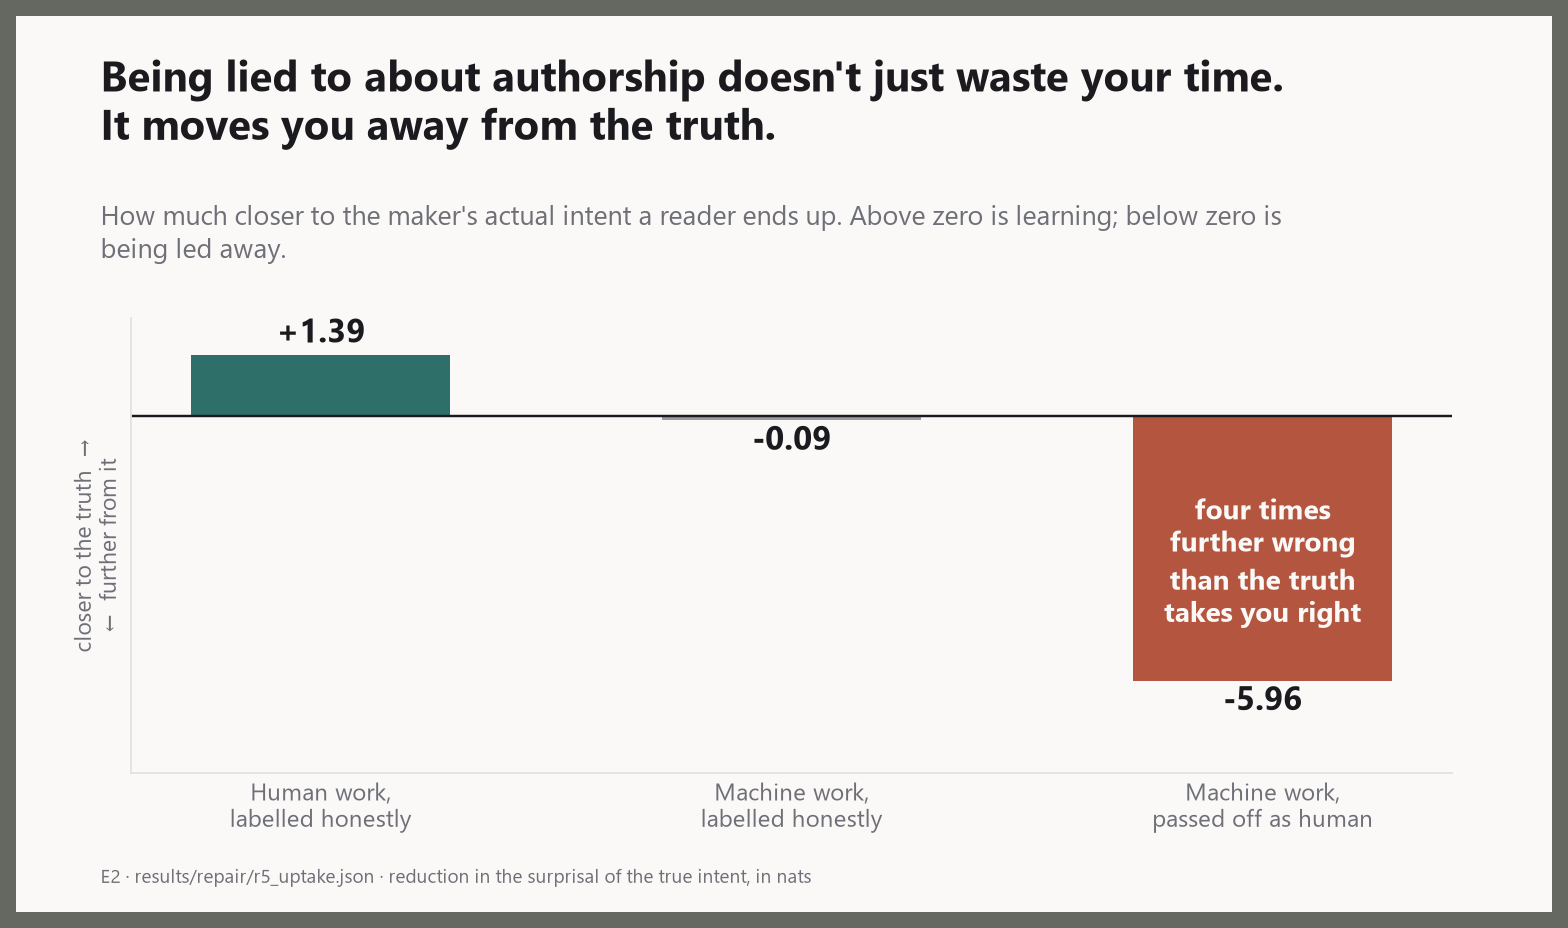
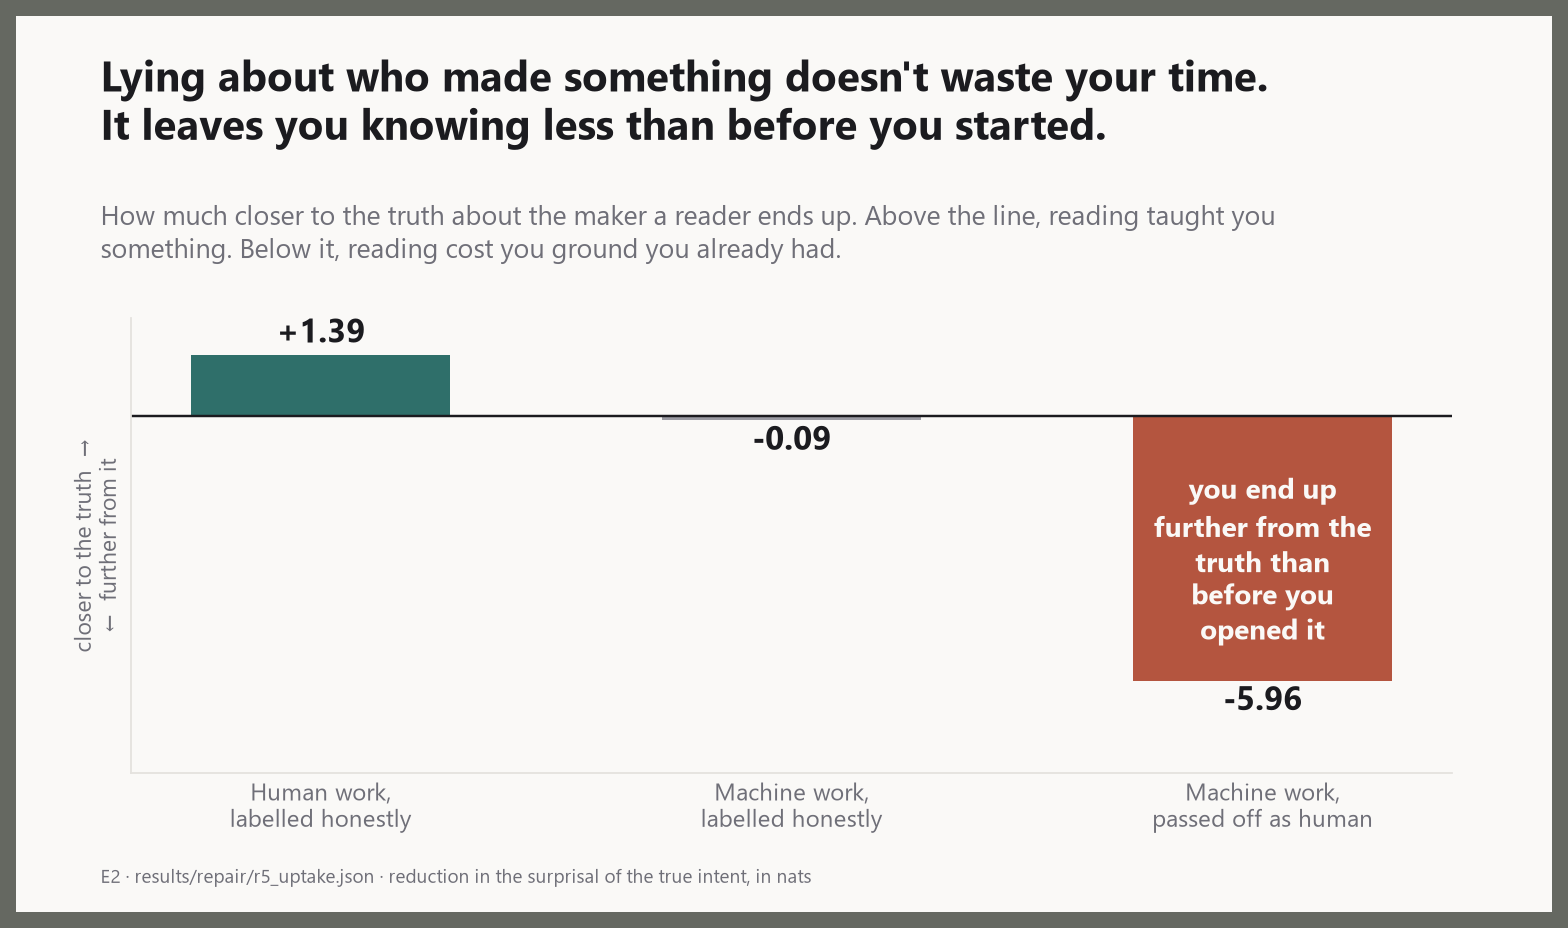
Rewrite the carousel slides: no em dashes, and plate 22 re-encoded
PLATE 22 was unreadable and the encoding was why. It plotted the share of random
rebuilds that reproduced each finding, so a LONG bar meant a WEAK result. The eye
reads long as strong, always, and no amount of labelling fixes an encoding that
is fighting the reader.

Every bar is now the same length, because every bar is one finding, and the only
question is how much of it is teal. Grey is what would have happened anyway in a
model built the same way with random settings; teal is what was left over. The
0% finding now reads as a nearly all-grey bar and the 100% one is solid teal,
which is the direction a reader already expects.

PLATE 01 understated its own result. "Four times further wrong" is a ratio; the
signed measure supports something plainer and worse. Reading it does not fail to
teach you, it leaves you knowing less about the maker than before you opened it.

PLATE 02 now names the danger rather than describing a curve. Partial structure
is worse than none, which is the counterintuitive part and the part worth
saying. Axis ends relabelled in reader terms rather than model terms.

PLATE 03: "written in a language you don't read" implied a human language with
human readers somewhere. The condition is a maker whose state cannot be inverted
at all, so it now reads "built by an unconstrained artificial mind". Title cut
from three rendered lines to two.

NO EM DASHES in any rendered slide text, anywhere in the set. Twelve strings
rewritten with real connectives.
[…]

Changed region(s): [[0.0625, 0.0625, 0.8125, 0.1562], [0.0625, 0.2188, 0.8125, 0.2812], [0.7188, 0.5, 0.875, 0.6875]]

diff --git a/scripts/make_walkthrough_plates.py b/scripts/make_walkthrough_plates.py
@@ -50,9 +50,9 @@ def plate_01_false_label():
     vals = [float(p[1]["error_reduction"]) for p in picks]
 
     fig, ax = plate(
-        "Being lied to about authorship doesn't just waste your time.\nIt moves you away from the truth.",
-        "How much closer to the maker's actual intent a reader ends up. Above zero is learning; "
-        "below zero is being led away.",
+        "Lying about who made something doesn't waste your time.\nIt leaves you knowing less than before you started.",
+        "How much closer to the truth about the maker a reader ends up. Above the line, reading "
+        "taught you something. Below it, reading cost you ground you already had.",
         "E2 · results/repair/r5_uptake.json · reduction in the surprisal of the true intent, in nats")
     bars = ax.bar([p[0] for p in picks], vals, color=[p[2] for p in picks], width=0.55)
     bar_labels(ax, bars, vals, fmt="{:+.2f}", fontsize=15, color=INK)
@@ -61,7 +61,7 @@ def plate_01_false_label():
     clean_axis(ax, "closer to the truth  →\n←  further from it")
     ax.set_yticks([])
     on_bar(ax, 2, vals[2] * 0.55,
-           "four times further wrong\nthan the truth takes you right", fontsize=12.5,
+           "you end up further from\nthe truth than before\nyou opened it", fontsize=12.5,
            bar=bars[2])
     record(save(fig, "01_false_label_moves_you_wrong"),
            "The central result. Same object, different label, opposite direction of travel.")
@@ -77,9 +77,10 @@ def plate_02_interior_peak():
              for r in t1["interior_peak"]["rows"]} if "interior_peak" in t1 else {}
 
     fig, ax = plate(
-        "Invention peaks where content is almost readable — not where it is empty.",
-        "Enough familiar structure to make an explanation seem available; not enough to make it "
-        "right. The worst place to be is nearly understandable.",
+        "Total nonsense is safe. Total clarity is safe.\nThe danger zone is content that is almost readable.",
+        "Partial structure is worse than none. Enough familiar shape to make an explanation seem "
+        "available, not enough to make it right, so the reader builds a confident story about "
+        "somebody who was never there.",
         "E20 · results/e20_omega_sweep.csv · confident-and-contradictory readings, by how much of "
         "the content the reader has vocabulary for")
     x = df.omega.to_numpy()
@@ -89,10 +90,11 @@ def plate_02_interior_peak():
     peak = int(np.argmax(y))
     ax.scatter([x[peak]], [y[peak]], s=150, color=MACHINE, zorder=4)
     annotate(ax, x[peak] + 0.035, y[peak],
-             f"peak at {x[peak]:.0%} readable\n({y[peak]:.2f})", color=MACHINE,
+             f"worst at {x[peak]:.0%} readable", color=MACHINE,
              va="center", fontsize=12.5, weight="bold")
-    annotate(ax, 0.005, y[0] * 0.55, "totally\nforeign", color=MUTED, fontsize=10.5, va="top")
-    annotate(ax, 0.93, max(y) * 0.12, "fully\nreadable", color=MUTED, fontsize=10.5, ha="right")
+    annotate(ax, 0.005, y[0] * 0.55, "nothing you\nrecognise", color=MUTED, fontsize=10.5, va="top")
+    annotate(ax, 0.95, max(y) * 0.12, "everything you\nrecognise", color=MUTED, fontsize=10.5,
+             ha="right")
     if share:
         annotate(ax, 0.52, max(y) * 0.80,
                  "the peak lands in the same place in\n100% of resampled runs",
@@ -111,16 +113,15 @@ def plate_02_interior_peak():
 def plate_03_the_wall():
     d = load("v6/e37_wall.json")
     c = d["cells"]
-    order = [("human", "Human work", HUMAN),
-             ("foreign", "Written in a language\nyou don't read", COOL),
+    order = [("human", "Made by a person", HUMAN),
+             ("foreign", "Built by an unconstrained\nartificial mind", COOL),
              ("noninvertible", "Every word familiar,\nnobody behind it", MACHINE)]
     ent = [float(c[k]["final_entropy"]) for k, _, _ in order]
     eng = [float(c[k]["engaged_fraction"]) for k, _, _ in order]
 
     fig, ax = plate(
-        "\"I can read every word and there's nothing there\" is a different failure\nfrom \"I can't parse this.\"",
-        "Content built from familiar material whose maker cannot be reconstructed produces a "
-        "signature neither existing condition does: legible, and empty.",
+        "\"I read every word and nobody was there\"\nis its own kind of failure.",
+        "It is not that the words are hard. Every one of them is familiar. It is that no maker can be\nreconstructed from them, and that produces a signature neither other condition does.",
         "E37 · results/v6/e37_wall.json · how unresolved the reader is left, and how long it keeps trying")
     xs = np.arange(3)
     w = 0.36
@@ -154,7 +155,7 @@ def plate_04_method_not_purpose():
     goal = [float(c["goal_error_reduction"]) for c in cells]
 
     fig, ax = plate(
-        "Depth changes how much of the method you pick up.\nIt cannot change how much of the purpose you get — by design.",
+        "Depth changes how much of the method you pick up.\nIt cannot change how much of the purpose you get, by design.",
         "The model is built so a deep work and a shallow one state their purpose equally clearly. "
         "For five versions we measured the purpose, and found nothing.",
         "E30 / E36 · results/v6/e36_process.json · what a reader takes away, scored two ways")
@@ -201,7 +202,7 @@ def plate_05_intent_unlocks():
              f"{after / before:.1f}× more, same reader, same object",
              color=HUMAN, ha="center", fontsize=13, weight="bold")
     record(save(fig, "05_intent_unlocks_the_method"),
-           "Intent is the key that makes the method readable. Not in the essay or the preprint — "
+           "Intent is the key that makes the method readable. Not in the essay or the preprint, "
            "it came out of a conversation and then held.")
 
 
@@ -217,7 +218,7 @@ def plate_06_two_mechanisms():
     fig, ax = plate(
         "If trust switches off your guard, honesty stops being enough.",
         "Two accounts of the same effect. One says you absorb machine work because you were "
-        "fooled about its source. The other says trust itself lowered the guard — so you absorb "
+        "fooled about its source. The other says trust itself lowered the guard, so you absorb "
         "it even when told the truth.",
         "E41 · results/v6/retrofit.json · how much of the work the reader is allowed to keep")
     xs = np.arange(2)
@@ -279,7 +280,7 @@ def plate_08_expertise_substitutes():
     fig, ax = plate(
         "Learning to read machine work doesn't add a skill. It swaps one out.",
         "Two readers, identical except for what they expect a maker to be like. The reader tuned "
-        "to machines reads machine work perfectly — and loses half its accuracy on human work.",
+        "to machines reads machine work perfectly, and loses half its accuracy on human work.",
         "E38 · results/v6/e38_expertise.json · share of makers' intent correctly recovered")
     xs = np.arange(2)
     w = 0.34
@@ -326,7 +327,7 @@ def plate_09_pays_more_gets_less():
              f"{decoup / honest:.1f}× the attention,\nand it learns {uptake:+.2f}",
              color=MACHINE, ha="center", fontsize=12.5, weight="bold")
     record(save(fig, "09_pays_more_gets_less"),
-           "A third failure mode. Not the crash — the reader is engaged. Not the lie — nobody "
+           "A third failure mode. Not the crash, because the reader is engaged. Not the lie, because nobody "
            "lied. A reader correctly reading something built to trip its own heuristic.")
 
 
@@ -396,7 +397,7 @@ def plate_11_self_report():
     ax.set_yticks([0, 0.5, 1.0])
     ax.set_yticklabels(["never", "half", "always"])
     record(save(fig, "11_the_master_cannot_explain"),
-           "The reader ends up knowing the maker better than the maker knows themselves — and "
+           "The reader ends up knowing the maker better than the maker knows themselves, and "
            "here nobody set that. Practice sets it.")
 
 
@@ -412,7 +413,7 @@ def plate_12_two_damages():
     fig, ax = plate(
         "One kind of damage scales with how much slop you consume.\nThe other is already there at zero.",
         "Absorbing bad material gets worse the more there is. Failing to absorb good material "
-        "does not — it is driven by walking away, not by what is in the pile.",
+        "does not. It is driven by walking away, not by what is in the pile.",
         "E9 · results/e9_summary.csv · error in the reader's model of what people are like")
     x = both.contamination.to_numpy()
     ax.plot(x, both.shape_kl.to_numpy(), "-o", color=MACHINE, lw=2.6, ms=9)
@@ -489,7 +490,7 @@ def plate_14_knee_not_cliff():
     fig, ax = plate(
         "Competence doesn't fall off a cliff. It bends.",
         "A real threshold sharpens as you gather more evidence. This one did not budge across "
-        "sixteen times the data — so its shape comes from the model, not from a boundary in the "
+        "sixteen times the data, so its shape comes from the model, not from a boundary in the "
         "world.",
         f"E15 · results/e15_verdict.json · width of the transition, at three evidence levels "
         f"(ratio {w['width_ratio']:.2f})")
@@ -520,7 +521,7 @@ def plate_15_coverage():
     fig, ax = plate(
         "Labelling only protects readers who know the labelling exists.",
         "How much machine content has to be labelled before a reader keeps a clean picture of "
-        "what people are like. Readers who don't know the convention need far more — and never "
+        "what people are like. Readers who don't know the convention need far more, and never "
         "get fully there.",
         "E16 · results/e16_verdict.json · a lower bound: the aware reader is handed the true coverage")
     bars = ax.bar(["Knows the convention", "Doesn't know it"], [aware, naive],
@@ -548,7 +549,7 @@ def plate_16_channel_race():
     fig, ax = plate(
         "Two witnesses arrive with every glance, and on a lie they disagree.",
         "The work argues for the truth. The label argues for the lie. Which one wins is settled "
-        "by arithmetic, not by psychology — and the tipping point can be computed without running "
+        "by arithmetic, not by psychology, and the tipping point can be computed without running "
         "anything.",
         "D-1 · results/diagnostics/d1_channels.json · evidence per glance, machine work passed off as human")
     # A wider left margin than the house default: on a horizontal bar chart the category names
@@ -581,7 +582,7 @@ def plate_17_withheld():
     fig, ax = plate(
         "One experiment has been withheld three times, and stays withheld.",
         "It asks whether damage compounds as each generation learns from the last. Its own "
-        "honesty check — with zero contamination, show zero damage — has failed every time. So "
+        "honesty check, which is to show zero damage when there is zero contamination, has failed every time. So "
         "real decay cannot be told apart from the instrument's own noise.",
         "E8 · a failing test is kept in the suite as a visible marker, so any future fix has to "
         "switch it off deliberately")
@@ -746,16 +747,24 @@ def plate_21_two_gates_settled():
 # 22 - how much of this is the theory (the severity rates).
 # =========================================================================== #
 def plate_22_how_much_is_the_theory():
+    """Rewritten, because the first version could not be read by someone who was there for it.
+
+    The old encoding was backwards. It plotted the share of random rebuilds that reproduced each
+    finding, so a LONG bar meant a WEAK result. The eye reads long as strong, always, and no
+    amount of labelling fixes an encoding that is fighting the reader.
+
+    Every bar is now the same length, because every bar is one finding, and the question is how
+    much of it is mine. Teal is the part that needed the theory. Grey is the part any model of
+    this shape produces on its own.
+    """
     d = load("v8/s1_severity.json")
     rates = d["rates"]
     ref = d.get("reference_point", {})
 
-    # Short, plain labels. The full finding names are in the footer's source file; a bar chart
-    # whose labels need two lines each is not readable in two seconds.
     SHORT = {
         "E2/R-5 a false label moves you the wrong way": "a false label misleads you",
-        "E36 depth moves the method, not the purpose": "depth transmits method",
-        "E37 the wall is a distinct failure": "legible and empty",
+        "E36 depth moves the method, not the purpose": "practice shows in the work",
+        "E37 the wall is a distinct failure": "legible, and nobody home",
     }
     labels, vals = [], []
     for name, r in rates.items():
@@ -765,39 +774,52 @@ def plate_22_how_much_is_the_theory():
         labels.append(SHORT.get(name, name[:28]))
         vals.append(float(v))
     if ref.get("false_positive_rate") is not None:
-        labels.append("certainty under a false label")
+        labels.append("readers turn certain")
         vals.append(float(ref["false_positive_rate"]))
 
-    order = sorted(range(len(vals)), key=lambda i: vals[i])     # ascending, so 0% sits at bottom
+    order = sorted(range(len(vals)), key=lambda i: -vals[i])   # most-mine at the bottom
     labels = [labels[i] for i in order]
     vals = [vals[i] for i in order]
+    mine = [1.0 - v for v in vals]
 
     fig, ax = plate(
-        "I threw my own settings away and checked how much of this was ever mine.",
-        "Keep the shape of the model, randomise everything the theory specifies, and count how "
-        "often the finding still appears. If it appears every time, it came from the shape.",
-        "S-1 - results/v8/s1_severity.json - share of randomly parameterised models that "
-        "reproduce each finding")
-    # A wider left margin than the house default, because these labels are the axis.
-    pos = ax.get_position()
-    ax.set_position([0.26, pos.y0, 0.62, pos.height])
+        "I rebuilt my model with the theory taken out,\nto see what I could still take credit for.",
+        "Each bar is one finding. The grey part is how much of it showed up anyway in a model "
+        "built the same way with random settings. The teal part is what was left over, and the "
+        "teal part is the only bit that is evidence for this theory rather than for the method.",
+        "S-1 - results/v8/s1_severity.json - 600 randomly parameterised rebuilds per finding")
 
-    colors = [MACHINE if v > 0.5 else HUMAN for v in vals]
-    bars = ax.barh(labels, vals, color=colors, height=0.5)
-    for b, v in zip(bars, vals):
-        ax.text(v + 0.025, b.get_y() + b.get_height() / 2, f"{v:.0%}",
-                va="center", ha="left", fontsize=16, fontweight="bold", color=INK)
-    ax.set_xlim(0, 1.25)
-    ax.tick_params(axis="y", labelsize=12)
+    pos = ax.get_position()
+    ax.set_position([0.30, pos.y0, 0.60, pos.height])
+
+    y = np.arange(len(labels))
+    ax.barh(y, vals, color=NEUTRAL, height=0.52)
+    ax.barh(y, mine, left=vals, color=HUMAN, height=0.52)
+
+    for i, (v, m) in enumerate(zip(vals, mine)):
+        if m >= 0.12:
+            ax.text(vals[i] + m / 2, i, f"{m:.0%}", va="center", ha="center",
+                    fontsize=15, fontweight="bold", color=PAPER)
+        else:
+            ax.text(1.015, i, f"{m:.0%}", va="center", ha="left",
+                    fontsize=15, fontweight="bold", color=INK)
+
+    ax.set_yticks(y, labels, fontsize=12.5)
+    ax.set_xlim(0, 1.20)
+    ax.set_ylim(-0.62, len(labels) + 0.16)
     clean_axis(ax, "", "")
     ax.set_xticks([])
-    annotate(ax, 0.16, 0.02, "needed the theory", color=HUMAN,
-             fontsize=12.5, weight="bold", va="center")
-    annotate(ax, 1.02, len(vals) - 1.5, "came from the\narchitecture,\nnot the theory",
-             color=MACHINE, fontsize=12, weight="bold", va="center")
+    for s in ax.spines.values():
+        s.set_visible(False)
+
+    annotate(ax, 0.02, len(labels) - 0.30, "would have happened anyway",
+             color=MUTED, fontsize=12, weight="bold", va="center", ha="left")
+    annotate(ax, 0.99, len(labels) - 0.30, "actually mine",
+             color=HUMAN, fontsize=12, weight="bold", va="center", ha="right")
+
     record(save(fig, "22_how_much_is_the_theory"),
-           "The most important number here is not a result. It costs the project its two "
-           "biggest-sounding claims.")
+           "Almost nobody publishes this number about their own work. It costs the project its "
+           "two biggest-sounding claims.")
 
 
 # =========================================================================== #
